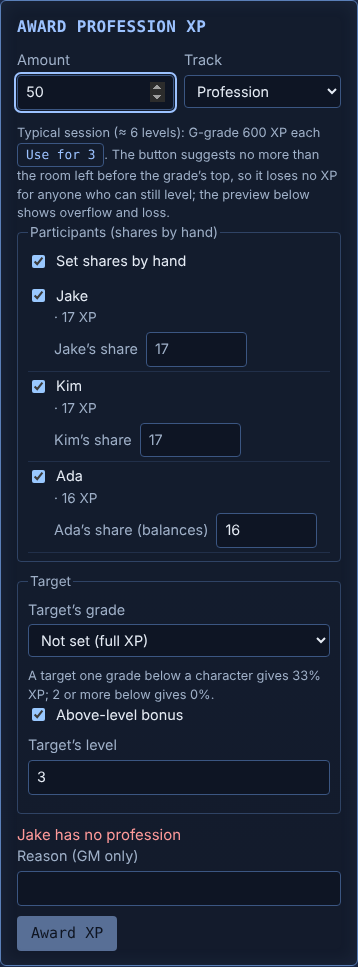
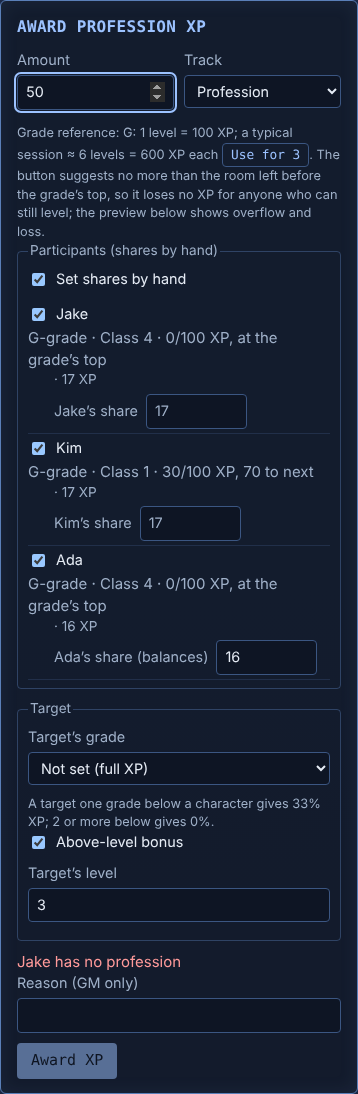
feat(web): MU.3 grade reference line in the award box (WIP)
Claude-Session: https://claude.ai/code/session_015YxiCeWxuMv6Spme6phKsE

diff --git a/apps/web/src/gm/XpAward.tsx b/apps/web/src/gm/XpAward.tsx
@@ -166,11 +166,14 @@ export function XpAward({ client, state }: { client: LiveClient; state: Campaign
       </div>
       {grades.length > 0 && (
         <p className="muted small" data-testid="typical-session">
-          Typical session (≈ {rules.campaign.typicalLevelsPerSession} levels):{' '}
+          Grade reference:{' '}
           {grades.map((g, i) => (
             <span key={g}>
               {i > 0 && ' · '}
-              {g}-grade {typicalSessionXp(rules, g).toLocaleString('en-US')} XP each{' '}
+              {g}: 1 level ={' '}
+              {(rules.grades.find((x) => x.id === g)?.xpPerLevel ?? 0).toLocaleString('en-US')} XP;
+              a typical session ≈ {rules.campaign.typicalLevelsPerSession} levels ={' '}
+              {typicalSessionXp(rules, g).toLocaleString('en-US')} XP each{' '}
               {(() => {
                 const group = chosen
                   .map((id) => state.characters[id])

diff --git a/e2e/M4.6.spec.ts b/e2e/M4.6.spec.ts
@@ -58,7 +58,9 @@ test('the GM previews and awards XP with a custom split', async ({ browser }) =>
   // The typical-session helper fills the amount for the three G-grade characters:
   // 600 each is typical, but a fresh G character has only 400 XP of room, so it
   // suggests 3 × 400 and nothing is lost.
-  await expect(award.getByTestId('typical-session')).toContainText('G-grade 600 XP each');
+  await expect(award.getByTestId('typical-session')).toContainText(
+    'G: 1 level = 100 XP; a typical session ≈ 6 levels = 600 XP each',
+  );
   await award.getByRole('button', { name: 'Use for 3' }).click();
   await expect(award.getByLabel('Amount')).toHaveValue('1200');
   await expect(award.getByTestId(`levels-${jake}`)).toHaveText(' · class lvl 0 → 4');
